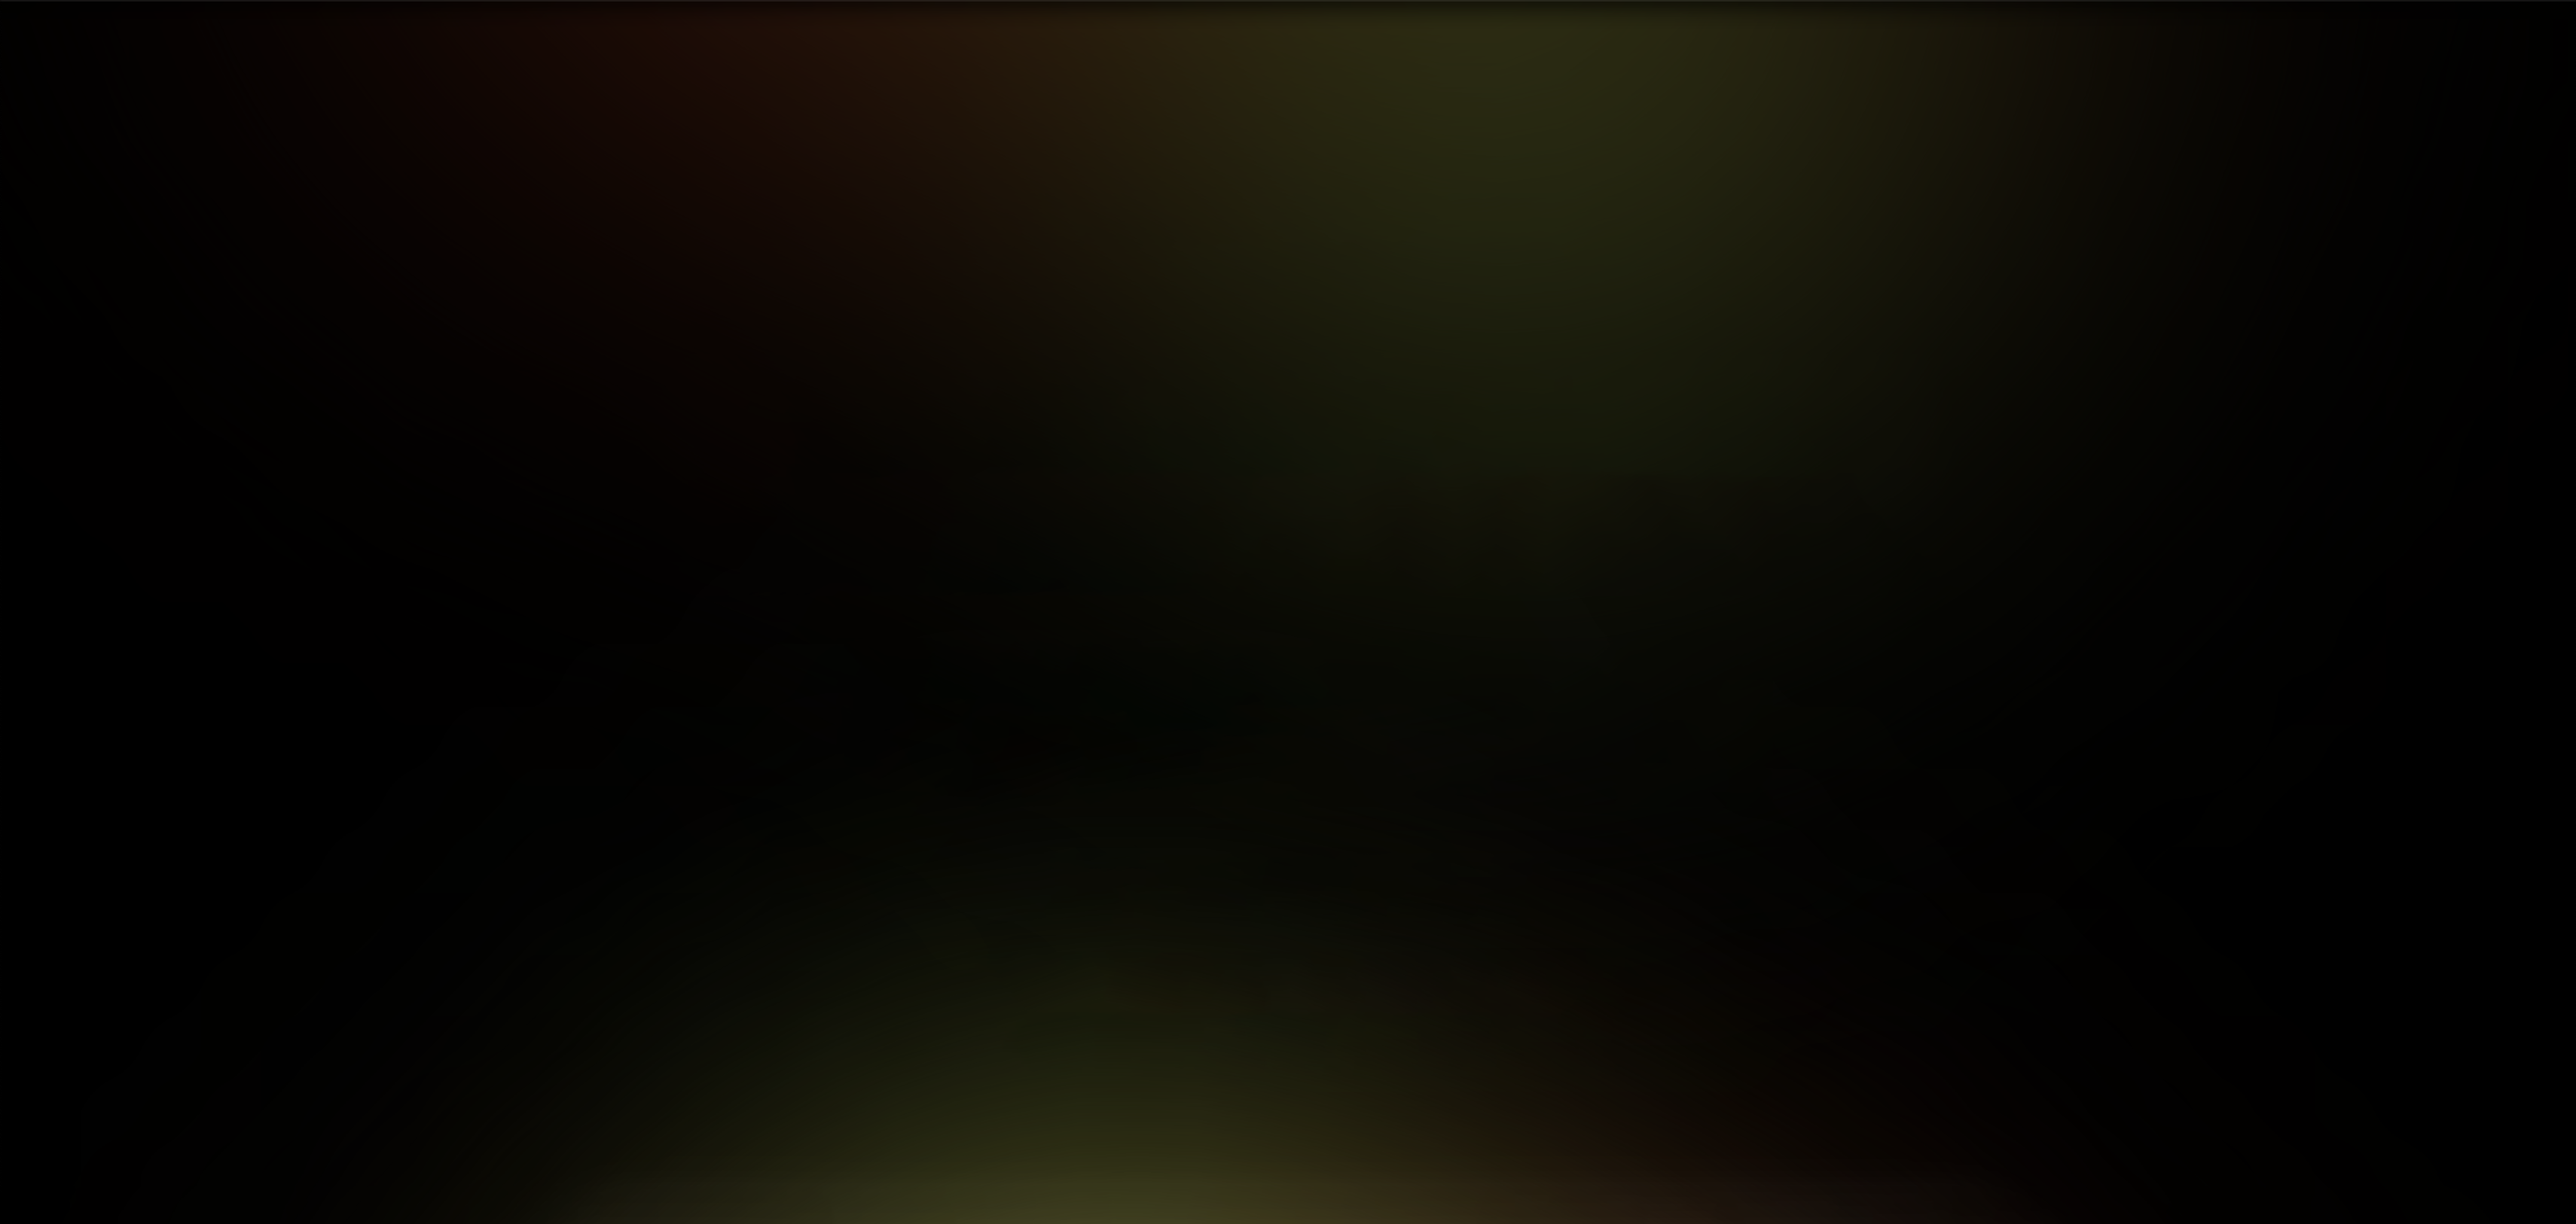
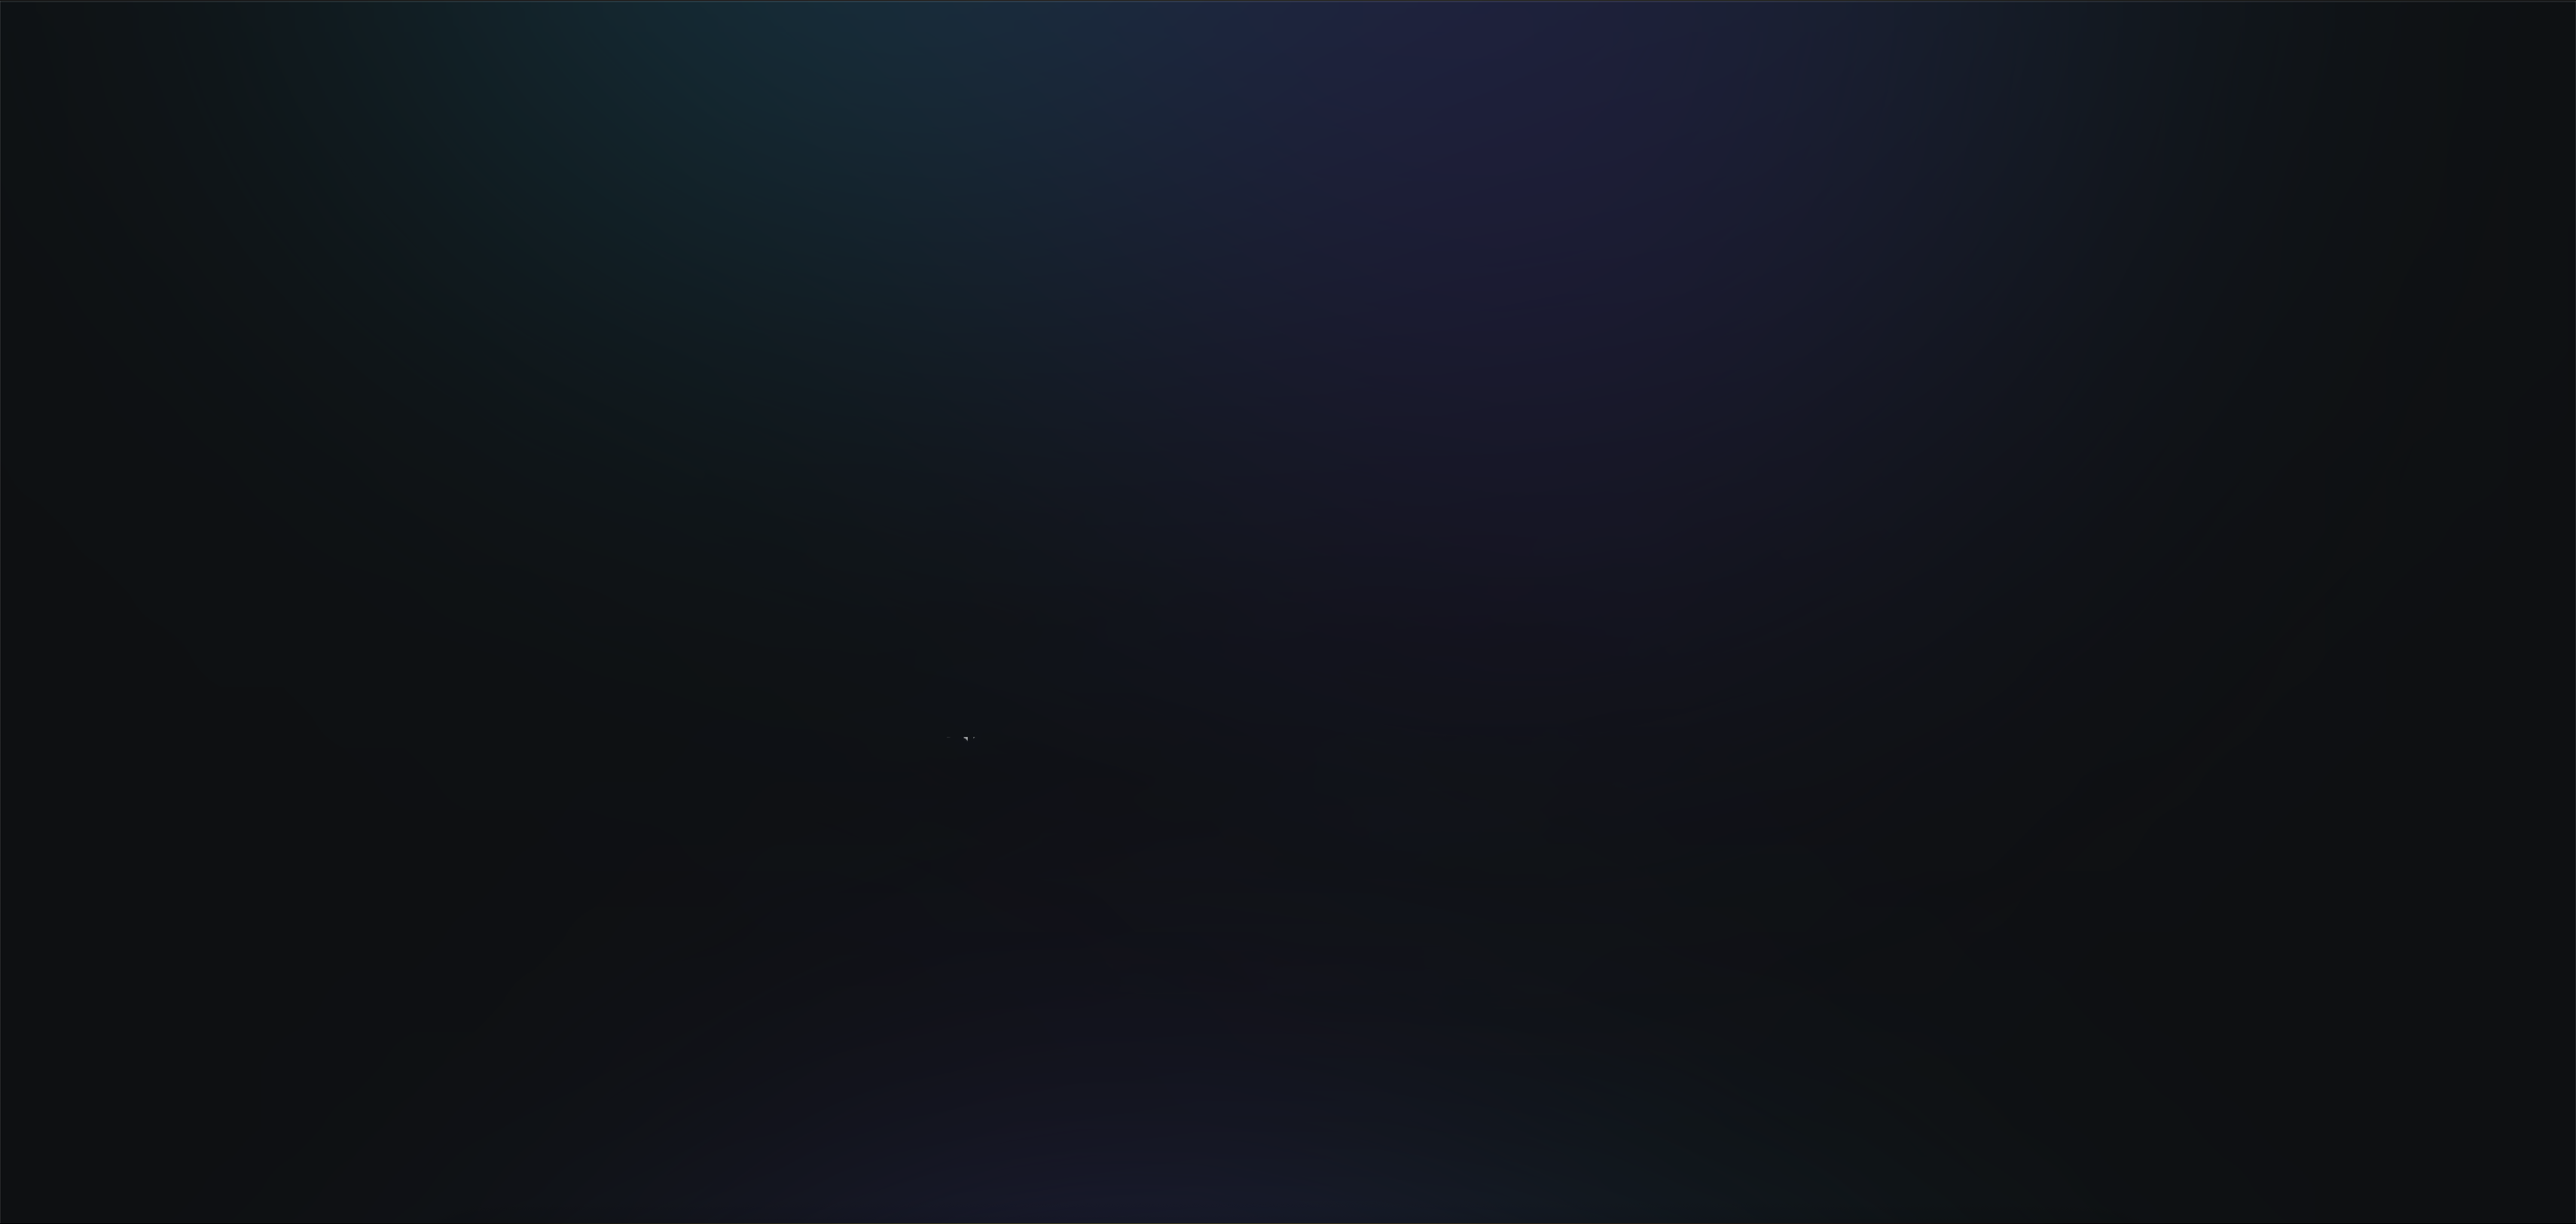
fixed dark mode in the main page

diff --git a/components/icons.tsx b/components/icons.tsx
@@ -66,24 +66,6 @@ export const Icons = {
   laptop: Laptop,
   home: Home,
   inbox: Inbox,
-  gitHub: ({ ...props }: LucideProps) => (
-    <svg
-      aria-hidden="true"
-      focusable="false"
-      data-prefix="fab"
-      data-icon="github"
-      role="img"
-      xmlns="http://www.w3.org/2000/svg"
-      viewBox="0 0 496 512"
-      {...props}
-    >
-      <path
-        fill="currentColor"
-        d="M165.9 397.4c0 2-2.3 3.6-5.2 3.6-3.3 .3-5.6-1.3-5.6-3.6 0-2 2.3-3.6 5.2-3.6 3-.3 5.6 1.3 5.6 3.6zm-31.1-4.5c-.7 2 1.3 4.3 4.3 4.9 2.6 1 5.6 0 6.2-2s-1.3-4.3-4.3-5.2c-2.6-.7-5.5 .3-6.2 2.3zm44.2-1.7c-2.9 .7-4.9 2.6-4.6 4.9 .3 2 2.9 3.3 5.9 2.6 2.9-.7 4.9-2.6 4.6-4.6-.3-1.9-3-3.2-5.9-2.9zM244.8 8C106.1 8 0 113.3 0 252c0 110.9 69.8 205.8 169.5 239.2 12.8 2.3 17.3-5.6 17.3-12.1 0-6.2-.3-40.4-.3-61.4 0 0-70 15-84.7-29.8 0 0-11.4-29.1-27.8-36.6 0 0-22.9-15.7 1.6-15.4 0 0 24.9 2 38.6 25.8 21.9 38.6 58.6 27.5 72.9 20.9 2.3-16 8.8-27.1 16-33.7-55.9-6.2-112.3-14.3-112.3-110.5 0-27.5 7.6-41.3 23.6-58.9-2.6-6.5-11.1-33.3 2.6-67.9 20.9-6.5 69 27 69 27 20-5.6 41.5-8.5 62.8-8.5s42.8 2.9 62.8 8.5c0 0 48.1-33.6 69-27 13.7 34.7 5.2 61.4 2.6 67.9 16 17.7 25.8 31.5 25.8 58.9 0 96.5-58.9 104.2-114.8 110.5 9.2 7.9 17 22.9 17 46.4 0 33.7-.3 75.4-.3 83.6 0 6.5 4.6 14.4 17.3 12.1C428.2 457.8 496 362.9 496 252 496 113.3 383.5 8 244.8 8zM97.2 352.9c-1.3 1-1 3.3 .7 5.2 1.6 1.6 3.9 2.3 5.2 1 1.3-1 1-3.3-.7-5.2-1.6-1.6-3.9-2.3-5.2-1zm-10.8-8.1c-.7 1.3 .3 2.9 2.3 3.9 1.6 1 3.6 .7 4.3-.7 .7-1.3-.3-2.9-2.3-3.9-2-.6-3.6-.3-4.3 .7zm32.4 35.6c-1.6 1.3-1 4.3 1.3 6.2 2.3 2.3 5.2 2.6 6.5 1 1.3-1.3 .7-4.3-1.3-6.2-2.2-2.3-5.2-2.6-6.5-1zm-11.4-14.7c-1.6 1-1.6 3.6 0 5.9 1.6 2.3 4.3 3.3 5.6 2.3 1.6-1.3 1.6-3.9 0-6.2-1.4-2.3-4-3.3-5.6-2z"
-      ></path>
-    </svg>
-  ),
-  check: Check,
   twitter: (props: IconProps) => (
     <svg
       {...props}
@@ -93,6 +75,14 @@ export const Icons = {
       xmlns="http://www.w3.org/2000/svg"
     >
       <path d="M714.163 519.284L1160.89 0H1055.03L667.137 450.887L357.328 0H0L468.492 681.821L0 1226.37H105.866L515.491 750.218L842.672 1226.37H1200L714.137 519.284H714.163ZM569.165 687.828L521.697 619.934L144.011 79.6944H306.615L611.412 515.685L658.88 583.579L1055.08 1150.3H892.476L569.165 687.854V687.828Z" />
+    </svg>
+  ),
+  gitHub: (props: IconProps) => (
+    <svg viewBox="0 0 438.549 438.549" {...props}>
+      <path
+        fill="currentColor"
+        d="M409.132 114.573c-19.608-33.596-46.205-60.194-79.798-79.8-33.598-19.607-70.277-29.408-110.063-29.408-39.781 0-76.472 9.804-110.063 29.408-33.596 19.605-60.192 46.204-79.8 79.8C9.803 148.168 0 184.854 0 224.63c0 47.78 13.94 90.745 41.827 128.906 27.884 38.164 63.906 64.572 108.063 79.227 5.14.954 8.945.283 11.419-1.996 2.475-2.282 3.711-5.14 3.711-8.562 0-.571-.049-5.708-.144-15.417a2549.81 2549.81 0 01-.144-25.406l-6.567 1.136c-4.187.767-9.469 1.092-15.846 1-6.374-.089-12.991-.757-19.842-1.999-6.854-1.231-13.229-4.086-19.13-8.559-5.898-4.473-10.085-10.328-12.56-17.556l-2.855-6.57c-1.903-4.374-4.899-9.233-8.992-14.559-4.093-5.331-8.232-8.945-12.419-10.848l-1.999-1.431c-1.332-.951-2.568-2.098-3.711-3.429-1.142-1.331-1.997-2.663-2.568-3.997-.572-1.335-.098-2.43 1.427-3.289 1.525-.859 4.281-1.276 8.28-1.276l5.708.853c3.807.763 8.516 3.042 14.133 6.851 5.614 3.806 10.229 8.754 13.846 14.842 4.38 7.806 9.657 13.754 15.846 17.847 6.184 4.093 12.419 6.136 18.699 6.136 6.28 0 11.704-.476 16.274-1.423 4.565-.952 8.848-2.383 12.847-4.285 1.713-12.758 6.377-22.559 13.988-29.41-10.848-1.14-20.601-2.857-29.264-5.14-8.658-2.286-17.605-5.996-26.835-11.14-9.235-5.137-16.896-11.516-22.985-19.126-6.09-7.614-11.088-17.61-14.987-29.979-3.901-12.374-5.852-26.648-5.852-42.826 0-23.035 7.52-42.637 22.557-58.817-7.044-17.318-6.379-36.732 1.997-58.24 5.52-1.715 13.706-.428 24.554 3.853 10.85 4.283 18.794 7.952 23.84 10.994 5.046 3.041 9.089 5.618 12.135 7.708 17.705-4.947 35.976-7.421 54.818-7.421s37.117 2.474 54.823 7.421l10.849-6.849c7.419-4.57 16.18-8.758 26.262-12.565 10.088-3.805 17.802-4.853 23.134-3.138 8.562 21.509 9.325 40.922 2.279 58.24 15.036 16.18 22.559 35.787 22.559 58.817 0 16.178-1.958 30.497-5.853 42.966-3.9 12.471-8.941 22.457-15.125 29.979-6.191 7.521-13.901 13.85-23.131 18.986-9.232 5.14-18.182 8.85-26.84 11.136-8.662 2.286-18.415 4.004-29.263 5.146 9.894 8.562 14.842 22.077 14.842 40.539v60.237c0 3.422 1.19 6.279 3.572 8.562 2.379 2.279 6.136 2.95 11.276 1.995 44.163-14.653 80.185-41.062 108.068-79.226 27.88-38.161 41.825-81.126 41.825-128.906-.01-39.771-9.818-76.454-29.414-110.049z"
+      ></path>
     </svg>
   ),
 };

diff --git a/components/layout/header.tsx b/components/layout/header.tsx
@@ -1,17 +1,14 @@
 "use client";
 import { cn } from "@/lib/utils";
-import { MobileSidebar } from "./mobile-sidebar";
-import * as React from "react";
 import { Moon, Sun } from "lucide-react";
 import { useTheme } from "next-themes";
 import Link from "next/link";
 import { usePathname } from "next/navigation";
 import { Icons } from "@/components/icons";
 import { Button } from "@/components/ui/button";
-import { buttonVariants } from "@/components/ui/button";
 import { siteConfig } from "@/config/site";
 import Image from "next/image";
-
+import React, { useEffect, useState } from "react";
 import {
   Tooltip,
   TooltipContent,
@@ -23,7 +20,6 @@ import { MainSidebar } from "./main-sidebar";
 
 export default function Header() {
   const pathname = usePathname();
-
   const { theme, setTheme } = useTheme();
   const [logo, setLogo] = React.useState("/pexlleh.svg"); // Initialize logo state with dark logo
 
@@ -125,7 +121,7 @@ export default function Header() {
             rel="noreferrer"
           >
             <div className="flex items-center justify-center w-9 h-9">
-              <Icons.twitter className="h-4 w-4" />
+              <Icons.twitter className="h-3 w-3 fill-current" />
               <span className="sr-only">Twitter</span>
             </div>
           </Link>

diff --git a/components/center.tsx b/components/center.tsx
@@ -1,3 +1,4 @@
+"use client";
 import Link from "next/link";
 import { cn } from "@/lib/utils";
 import { Icons } from "@/components/icons";
@@ -6,10 +7,22 @@ import { Separator } from "@/registry/new-york/ui/separator";
 import { PageHeader } from "@/components/page-header";
 import { SiteFooter } from "@/components/site-footer";
 import * as React from "react";
+import { useTheme } from "next-themes";
 
 export function CenterContent() {
+  const { theme } = useTheme();
+  const backgroundImage = theme === "dark" ? "/dark.png" : "/back.png";
+
   return (
-    <main className="main-background flex flex-1 justify-center pt-16 overflow-x-hidden overflow-y-auto">
+    <main
+      className="flex flex-1 justify-center pt-16 overflow-x-hidden overflow-y-auto"
+      style={{
+        backgroundImage: `url(${backgroundImage})`,
+        backgroundSize: "cover", // Cover the entire area of the container
+        backgroundRepeat: "no-repeat", // Prevent the image from repeating
+        backgroundPosition: "center", // Center the image within the container
+      }}
+    >
       <PageHeader className="pb-8">
         <Link
           style={{

diff --git a/app/globals.css b/app/globals.css
@@ -126,14 +126,6 @@
   background-clip: text;
 }
 
-
-
-.main-background {
-  background-image: url('/back.png');
-  background-size: cover;
-  background-position: center;
-}
-
 @keyframes fadeUp {
   from {
     opacity: 0;
